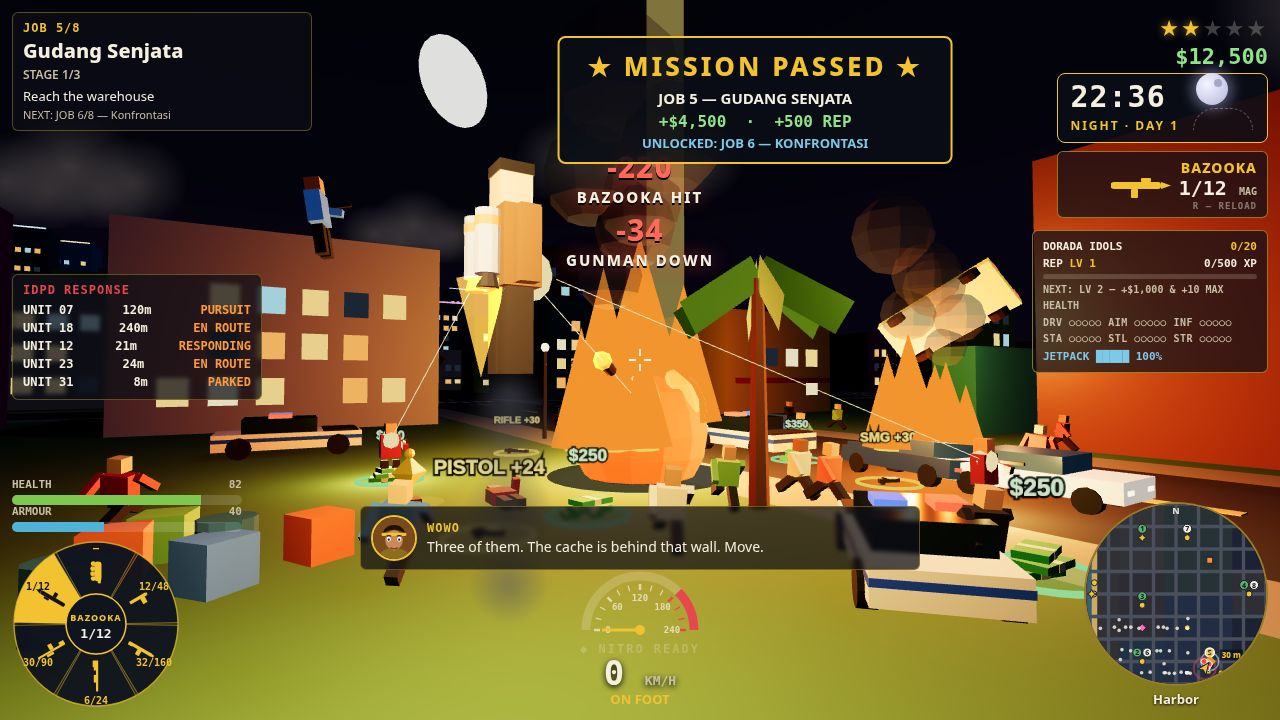
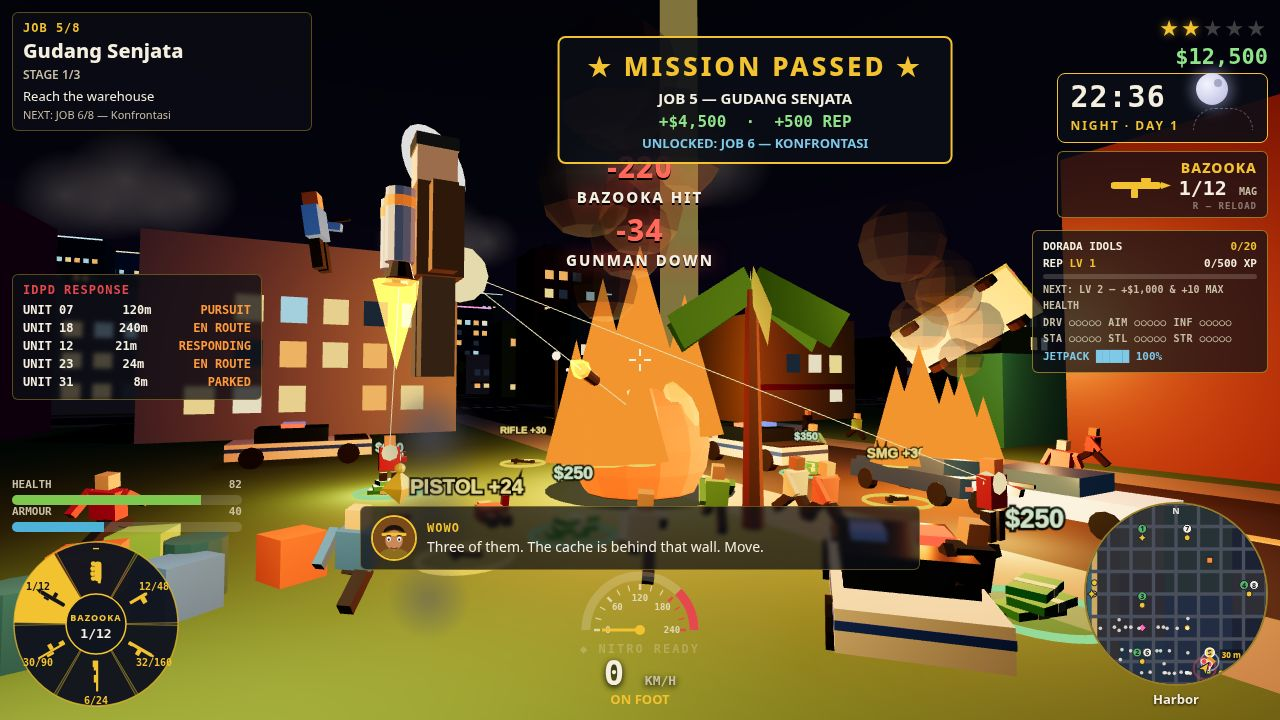
Token launch radar entry for make.fun token-radar-01

diff --git a/game/src/shots.js b/game/src/shots.js
@@ -581,6 +581,8 @@ function brightenWowo(G) {
       const c = m.clone();
       const hex = m.color.getHex();
       if (hex === 0x6a4a2a) { c.emissive.setHex(0x6a4a2a); c.emissiveIntensity = 0.3; } // jacket (V7-night: 0.7 glowed cream-white at night, hid the brown)
+      else if (hex === 0x2e2a26) { c.emissive.setHex(0x5a4632); c.emissiveIntensity = 0.5; } // legs — were near-black-on-black at night, the figure read as a floating torso
+      else if (hex === 0x1a1a1a) { c.emissive.setHex(0x2a2a2a); c.emissiveIntensity = 0.6; } // hair — same, the head had no cap against the black sky
       else if (hex === 0xd9a077) { c.emissive.setHex(0xd9a077); c.emissiveIntensity = 0.35; } // skin
       else if (hex === 0x8a8f96) { c.color.setHex(0xaab0b8); c.emissive.setHex(0x4a5568); c.emissiveIntensity = 0.6; } // tanks
       else if (hex === 0xd86a20) { c.emissive.setHex(0xd86a20); c.emissiveIntensity = 0.8; } // bands
@@ -1014,6 +1016,10 @@ function stageCombat(G) {
   // Wowo high-contrast vs black (V6's night fix) in V7's low-poly style.
   G.stats.playSeconds = 14400;
   restageSky(G, 'night');
+  // Moon behind Wowo's head (halo): restageSky's (180,180,-80) lands ~40 px
+  // up-right of his head; this shifts it ~27 m screen-left + ~27 m down.
+  const moonObj = G.scene.getObjectByName('v4-moon');
+  if (moonObj) moonObj.position.set(154, 135, -100); // was (202,153,-64): landed 90 px right of his head, not behind it
   setWanted(G, 2);
   G.police.units = [
     { name: 'UNIT 07', dist: 120, status: 'PURSUIT', mesh: null },
@@ -1039,16 +1045,18 @@ function stageCombat(G) {
   // (and above the dialogue box, which covers the bottom-centre of frame),
   // and grow the jetpack flame so the thrust reads at a glance.
   setJetpack(G, true);
-  // V5 F8: Wowo LOWER + BIGGER + PERSON-first. V4 had him at y 5.0 with a
-  // 2.0x flame — probe: head sy 18 (top edge, behind the JOB panel),
-  // chest (319,104), flame dominating. Now y 3.4 (head ~sy 190, clear of
-  // the top panels), mesh 1.25x, flame back to the 1.2x default (effective
-  // 1.5x through the mesh scale — still smaller than V4's 2.0x).
-  G.player.pos.y = 3.4;
+  // V7-night fix (parent read 03:41 WIB: Wowo did NOT read as a jetpack
+  // figure in 2 s — a small figure on the roof, flame not obvious). V5 F8
+  // had him at y 3.4, mesh 1.2x, flame 1.0x. First try (y 4.0, mesh 1.45x,
+  // flame 1.5x, dist 5.0) overshot: ~440 px tall, dead centre, flame a
+  // giant triangle hiding the blast. Now y 3.7, mesh 1.3x, flame 1.15x,
+  // dist 5.5, lat 3 (shifts him left of the blast): ~330 px figure+flame,
+  // feet clearly airborne against the dark sky, blast clear to his right.
+  G.player.pos.y = 3.7;
   const jpFlame = G.player.mesh && G.player.mesh.userData
     ? G.player.mesh.userData.jetpackFlame : null;
-  if (jpFlame) jpFlame.scale.setScalar(1.0); // V5r4: was 1.2
-  G.player.mesh.scale.setScalar(1.2); // V5 F8: Wowo bigger (was 1.25 — 1.25 + close camera cropped his tanks at the top edge)
+  if (jpFlame) jpFlame.scale.setScalar(0.8); // was 1.15: the long cone hid his legs and read as a triangle, not thrust
+  G.player.mesh.scale.setScalar(1.3); // was 1.45: too big at 5.0 m, cropped the composition
   // V5r3 F8: 3/4 profile — straight down his back, the jetpack tanks hid
   // the person entirely. Turned toward the camera so his right side (arm,
   // hip, leg) reads beside the tanks instead of behind them.
@@ -1061,16 +1069,18 @@ function stageCombat(G) {
   // Jetpack smoke trail below Wowo — the rising puffs are what sells
   // "he flew up here" at a glance (kept >8 m from the blast point so the
   // smoke-dimming below never touches them).
-  spawnSmoke(G, PX, 2.8, PZ, 1.2);
-  spawnSmoke(G, PX, 2.0, PZ, 1.0);
-  spawnSmoke(G, PX, 1.2, PZ, 0.9);
+  spawnSmoke(G, PX, 3.1, PZ, 1.2);
+  spawnSmoke(G, PX, 2.3, PZ, 1.0);
+  spawnSmoke(G, PX, 1.5, PZ, 0.9);
   // Warm key light on Wowo from the CAMERA side (behind-above him): he
   // faces away from the western sun, so his front reads near-black without
   // it — the light lifts his jacket, skin and the jetpack tanks out of the
   // dark sunset sky. Placed toward the camera so his BACK (tanks + flame,
   // what the camera sees) is lit, not just his front.
-  const wowoLight = new THREE.PointLight(0xffc27a, 130, 16, 1.6); // V7-night: was 200 — blew the brown jacket out to cream
-  wowoLight.position.set(PX - Math.sin(H) * 3, 5.5, PZ - Math.cos(H) * 3);
+  const wowoLight = new THREE.PointLight(0xffc27a, 110, 16, 1.6); // V7-night fix: was 160 straight behind (flattened facets, jacket went cream)
+  // Behind-SIDE light (2 m back + 3.5 m to the side): models the low-poly
+  // facets instead of washing them flat.
+  wowoLight.position.set(PX - Math.sin(H) * 2 + Math.cos(H) * 3.5, 5.0, PZ - Math.cos(H) * 2 - Math.sin(H) * 3.5);
   G.scene.add(wowoLight);
 
   // --- the blast itself, 14 m ahead of Wowo, dead centre of the frame ---
@@ -1185,14 +1195,14 @@ function stageCombat(G) {
   // toward the player, and the BAZOOKA shot itself — a bright tracer from
   // Wowo's gun to the heart of the blast, plus a rocket frozen mid-flight
   // halfway there.
-  const pPos = new THREE.Vector3(PX, 3.4, PZ); // V5 F8: Wowo now at y 3.4
+  const pPos = new THREE.Vector3(PX, 3.7, PZ); // V7-night fix: Wowo now at y 3.7
   for (const e of [e1, e2]) {
     const from = new THREE.Vector3(e.pos.x, 1.35, e.pos.z);
-    const to = new THREE.Vector3(pPos.x + (G.rng() - 0.5) * 1.2, 4.4, pPos.z + (G.rng() - 0.5) * 1.2); // V5 F8: was 5.0
+    const to = new THREE.Vector3(pPos.x + (G.rng() - 0.5) * 1.2, 4.7, pPos.z + (G.rng() - 0.5) * 1.2); // V7-night fix: was 4.4
     fireBurst(G, from, to);
   }
   const gunFrom = new THREE.Vector3(
-    pPos.x + Math.sin(H) * 0.6, 4.6, pPos.z + Math.cos(H) * 0.6, // V5 F8: was 6.0
+    pPos.x + Math.sin(H) * 0.6, 4.9, pPos.z + Math.cos(H) * 0.6, // V7-night fix: was 4.6
   );
   const blastTop = new THREE.Vector3(bp.x, 2.5, bp.z);
   fireBurst(G, gunFrom, blastTop);
@@ -1352,8 +1362,10 @@ function stageCombat(G) {
   // V5r2: dist 6.0 (was 4.5), height 0.0 (was -1.5) — at 4.5 m the lowered
   // + enlarged Wowo subtended ~32 deg and his tanks cropped at the top
   // edge; pulled back and level with him (cam y = 3.4) he fits whole.
-  placeChaseCamera(G, G.player.pos, H, 6.0, 0.0, 0, 0, 64, 2);
-  G.camera.lookAt(bp.x, 4.0, bp.z);
+  // V7-night fix: dist 5.5, lat 3, lookAt y 4.4 (was dist 5.0, lat 2,
+  // lookAt 4.6 — Wowo dead centre at ~440 px, hiding the blast).
+  placeChaseCamera(G, G.player.pos, H, 5.5, 0.0, 0, 0, 64, 3);
+  G.camera.lookAt(bp.x, 4.4, bp.z);
   G.camera.updateProjectionMatrix();
   const popLayer = document.getElementById('score-popups');
   if (popLayer) popLayer.style.top = '20%';
